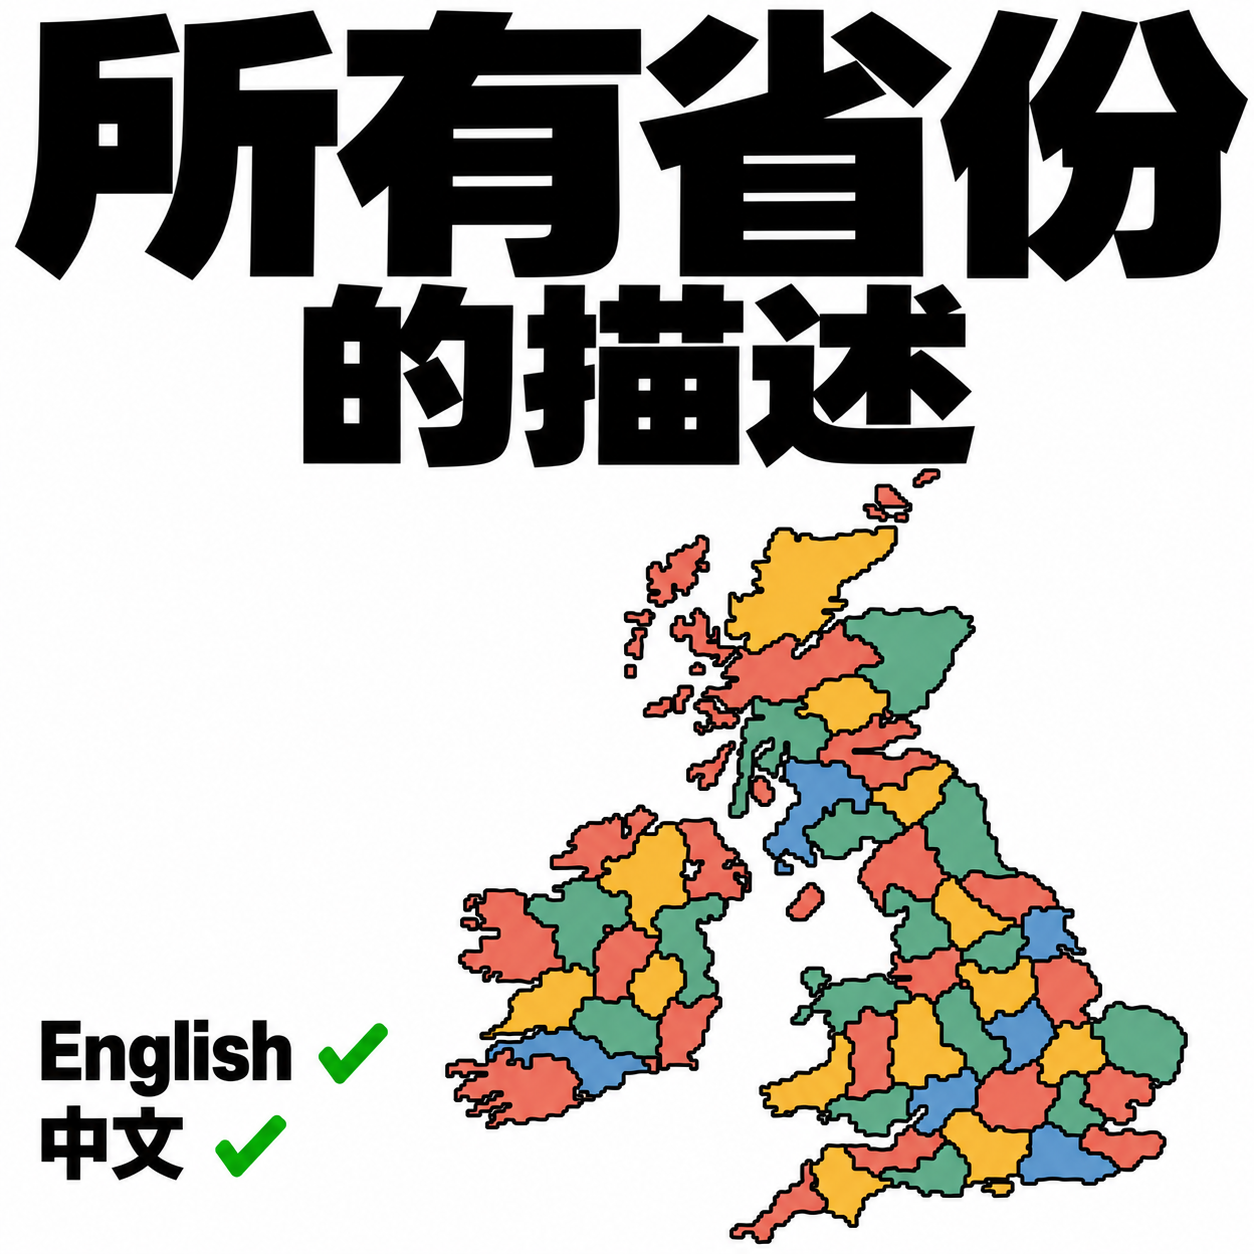
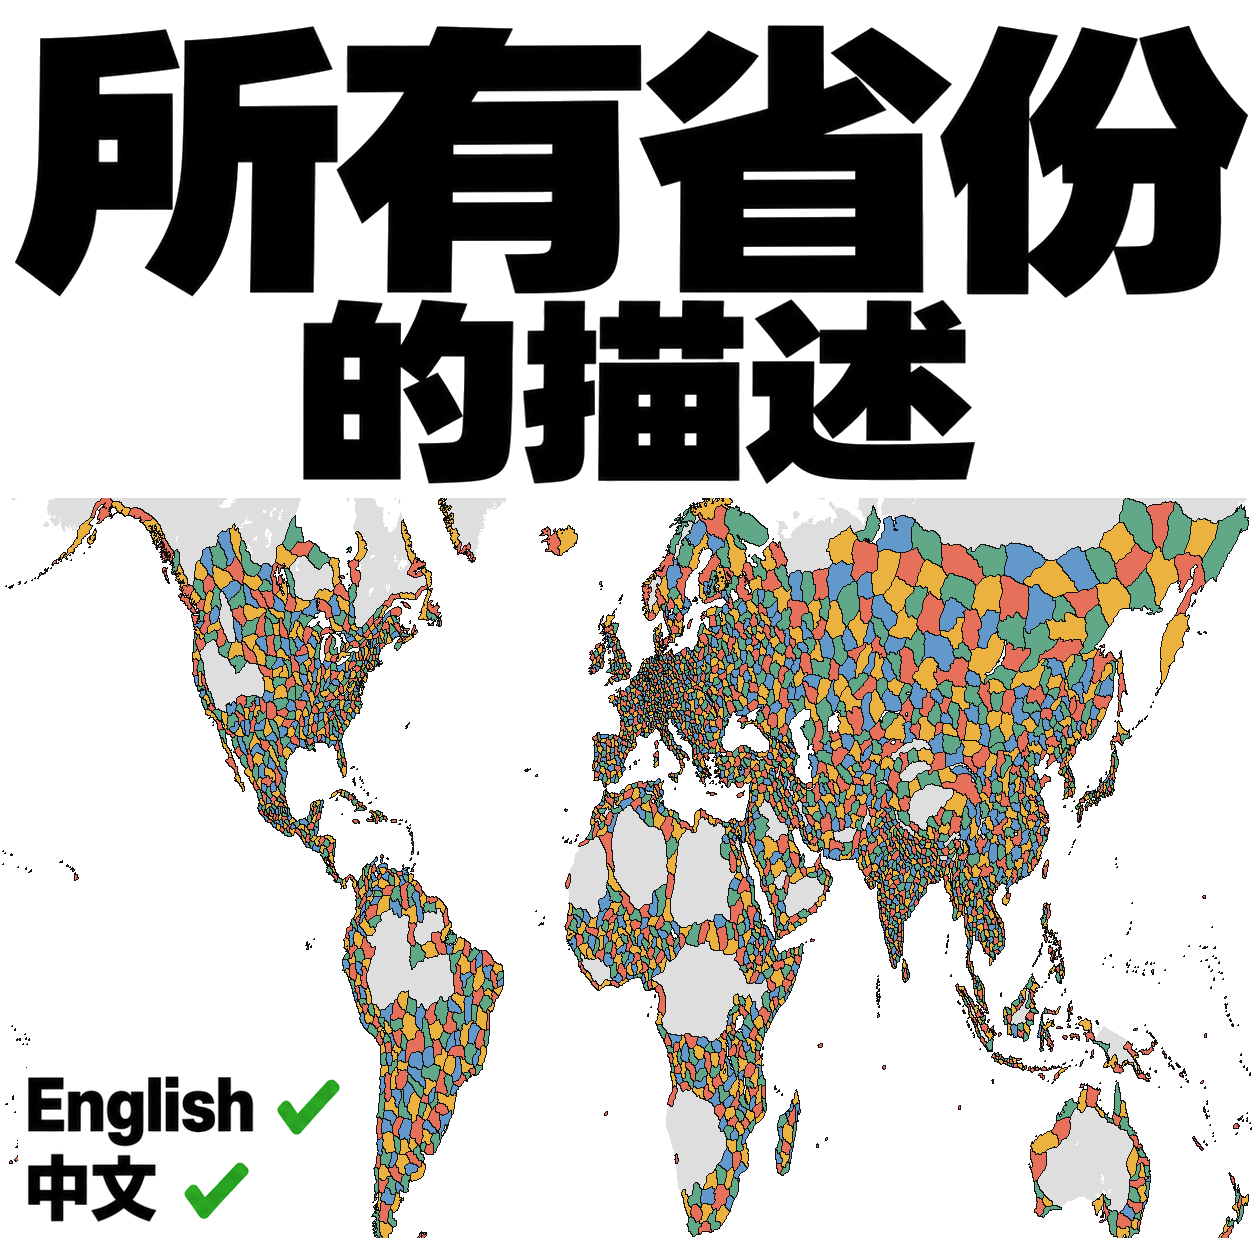
Cover: world map of all 3,272 described provinces (four-colour, stretched to fill the square), replacing the British Isles map; cover.py world

diff --git a/tools/cover.py b/tools/cover.py
@@ -1,11 +1,15 @@
 """工坊封面：从游戏地图取参考图，交给 Codex 生图模型画成封面，再导出工坊和模组要的尺寸。
 
-python tools/cover.py reference --game-root "<EU4 安装目录>"   # Windows：画 workshop/assets/map-reference.png（真实省份轮廓，四色）
+python tools/cover.py world --game-root "<EU4 安装目录>"       # Windows：画全世界四色省份图，拼成 cover-master.en.png / .zh-CN.png（现行封面）
+python tools/cover.py reference --game-root "<EU4 安装目录>"   # 旧：画不列颠群岛四色参考图（0.15.0 前的封面）
 python tools/cover.py derive                                   # 从 cover-master.en.png / cover-master.zh-CN.png 导出
                                                                # cover.jpg、cover.zh-CN.jpg（1254，JPEG 90）和 thumbnail.png（512）
 
-要 Pillow（uv run --with pillow python tools/cover.py derive）。母版由 Codex 生图模型按参考图画成，提示词在 workshop/assets/cover-prompt.*.txt。
-参考图只取轮廓和邻接关系，不含游戏美术；封面是宣传图，不是游戏截图。
+要 Pillow；world 还要 numpy。
+现行封面（2026-11-04 起）：world 从游戏地图取有词条的 3,272 个陆地省份四色上色（没词条的陆地灰色，海和湖白色），
+地图铺满宽度、纵向拉伸到正好填满标题下方，再拼上 title.<语言>.png 和左下角太平洋里的 languages.png。
+标题和语言标签是从旧的生图母版（Codex 生图模型按不列颠参考图画成，提示词在 cover-prompt.*.txt）裁下来的固定素材。
+地图只取轮廓和邻接关系，不含游戏美术；封面是宣传图，不是游戏截图。
 """
 import argparse
 import hashlib
@@ -117,6 +121,80 @@ def reference(game):
     print(f'{len(adj)} 个省份，参考图 {out.size} → {ASSETS / "map-reference.png"}')
 
 
+
+WORLD_SIDE, WORLD_PAD, WORLD_GAP = 1254, 16, 14
+GRAY = (222, 222, 222)
+
+
+def world(game):
+    import numpy as np
+    keep = {json.loads(l)['id'] for l in (ROOT / 'data' / 'entries.jsonl').read_text(encoding='utf-8').splitlines() if l.strip()}
+    dm = re.sub(r'#.*', '', (game / 'map' / 'default.map').read_text(encoding='latin-1'))
+    water = set()
+    for k in ('sea_starts', 'lakes'):
+        water |= {int(x) for x in re.findall(r'\d+', re.search(k + r'\s*=\s*\{([^}]*)\}', dm).group(1))}
+    c2id = {}
+    for line in (game / 'map' / 'definition.csv').read_text(encoding='latin-1').splitlines()[1:]:
+        f = line.split(';')
+        if len(f) >= 4 and f[0].isdigit():
+            c2id[(int(f[1]) << 16) | (int(f[2]) << 8) | int(f[3])] = int(f[0])
+    img = np.asarray(Image.open(game / 'map' / 'provinces.bmp').convert('RGB')).astype(np.int64)
+    H, W, _ = img.shape
+    u, inv = np.unique((img[..., 0] << 16) | (img[..., 1] << 8) | img[..., 2], return_inverse=True)
+    ids = np.array([c2id.get(int(k), 0) for k in u])[inv].reshape(H, W)
+    # 有词条的省份 → id；没词条的陆地 → -1（灰）；海、湖、未定义 → 0（白）
+    grid = np.where(np.isin(ids, list(keep)), ids, np.where(np.isin(ids, list(water)) | (ids == 0), 0, -1))
+    # 上下裁到有词条像素较多的行（去掉极地零星小岛，留几行边）
+    rows = np.where((grid > 0).sum(1) > 200)[0]
+    y0, y1 = max(rows.min() - 6, 0), min(rows.max() + 6, H)
+    grid = grid[y0:y1]
+    h = grid.shape[0]
+    adj = {}
+    for a, b in ((grid[:, :-1], grid[:, 1:]), (grid[:-1], grid[1:])):
+        m = (a != b) & (a > 0) & (b > 0)
+        for x, y in set(zip(a[m].tolist(), b[m].tolist())):
+            adj.setdefault(x, set()).add(y)
+            adj.setdefault(y, set()).add(x)
+    col = {}
+    for i in sorted(sorted(set(np.unique(grid[grid > 0]).tolist())), key=lambda i: -len(adj.get(i, ()))):
+        used = {col[j] for j in adj.get(i, ()) if j in col}
+        col[i] = next((c for c in range(4) if c not in used), i % 4)
+    lut = np.zeros(max(col) + 1, np.int64)
+    for k, v in col.items():
+        lut[k] = v
+    pal = np.array(PALETTE, np.uint8)
+
+    def render(width, height):
+        g = grid[(np.arange(height) * h / height).astype(int).clip(0, h - 1)][:, (np.arange(width) * W / width).astype(int).clip(0, W - 1)]
+        out = np.full((height, width, 3), 255, np.uint8)
+        out[g == -1] = GRAY
+        out[g > 0] = pal[lut[g[g > 0]]]
+        e = np.zeros(g.shape, bool)
+        e[:, :-1] |= (g[:, :-1] != g[:, 1:]) & ((g[:, :-1] > 0) | (g[:, 1:] > 0))
+        e[:-1] |= (g[:-1] != g[1:]) & ((g[:-1] > 0) | (g[1:] > 0))
+        out[e] = INK
+        return Image.fromarray(out)
+
+    render(WORLD_SIDE, round(h * WORLD_SIDE / W)).save(ASSETS / 'map-reference.png', optimize=True)
+    labels = Image.open(ASSETS / 'languages.png').convert('RGB')
+    labels = labels.resize((round(labels.width * .9), round(labels.height * .9)), Image.LANCZOS)
+    stretch = {}
+    for lang in ('en', 'zh-CN'):
+        title = Image.open(ASSETS / f'title.{lang}.png').convert('RGB')
+        my = WORLD_PAD + title.height + WORLD_GAP
+        mh = WORLD_SIDE - my - WORLD_PAD
+        out = Image.new('RGB', (WORLD_SIDE, WORLD_SIDE), 'white')
+        out.paste(title, (0, WORLD_PAD))
+        out.paste(render(WORLD_SIDE, mh), (0, my))
+        out.paste(labels, (18, my + mh - labels.height - 6))   # 左下角太平洋
+        out.save(ASSETS / f'cover-master.{lang}.png', optimize=True)
+        stretch[lang] = round(mh / (h * WORLD_SIDE / W), 2)
+    src = {'map': 'world', 'provinces': len(col), 'rows': [int(y0), int(y1)], 'vertical_stretch': stretch,
+           'source': 'EU4 map/provinces.bmp, definition.csv, default.map; data/entries.jsonl'}
+    (ASSETS / 'map-source.json').write_text(json.dumps(src, indent=1) + '\n', encoding='utf-8')
+    print(f'{len(col)} 个省份，纵向拉伸 {stretch} → cover-master.en.png / cover-master.zh-CN.png')
+
+
 def derive():
     files = {}
     for lang, jpg in (('en', 'cover.jpg'), ('zh-CN', 'cover.zh-CN.jpg')):
@@ -139,11 +217,11 @@ def derive():
 def main():
     ap = argparse.ArgumentParser(description=__doc__, formatter_class=argparse.RawDescriptionHelpFormatter)
     sub = ap.add_subparsers(dest='cmd', required=True)
-    r = sub.add_parser('reference')
-    r.add_argument('--game-root', type=Path, required=True)
+    for name in ('world', 'reference'):
+        sub.add_parser(name).add_argument('--game-root', type=Path, required=True)
     sub.add_parser('derive')
     a = ap.parse_args()
-    reference(a.game_root) if a.cmd == 'reference' else derive()
+    {'world': lambda: world(a.game_root), 'reference': lambda: reference(a.game_root), 'derive': derive}[a.cmd]()
 
 
 if __name__ == '__main__':

diff --git a/AGENTS.md b/AGENTS.md
@@ -64,9 +64,9 @@ python -B tools\build.py --verify dist\<新目录>
 | `tools/release.py` | 准备一个版本（升版本、CHANGELOG、全部检查、构建），两个发布工程相同 |
 | `tools/steam_upload.py`、`tools/steam_page.py` | 更新已有工坊条目的内容和页面 |
 | `tools/eu4zh.py` | 中文模组（工坊 2976470733）的文字编码，和研究工程里的同名文件一致，改一处要同步另一处 |
-| `tools/cover.py` | 封面：`reference` 从游戏地图画不列颠群岛的四色参考图，`derive` 从生图母版导出封面和缩略图 |
+| `tools/cover.py` | 封面：`world` 从游戏地图画全世界四色省份图（纵向拉伸填满标题下方），拼成中英文母版；`derive` 导出封面和缩略图；`reference` 是 0.15.0 前不列颠群岛封面的参考图 |
 | `workshop/` | 工坊页面中英文案（`description.*.txt`，BBCode）、更新说明、模组里附带的玩家说明 `player-readme.*.md`、`page.json` |
-| `workshop/assets/` | 封面母版 `cover-master.*.png`（Codex 生图模型按 `map-reference.png` 和 EU5 地块封面画成，提示词在 `cover-prompt.*.txt`）、导出的 `cover.jpg`、`cover.zh-CN.jpg`、`thumbnail.png` |
+| `workshop/assets/` | 封面母版 `cover-master.*.png`（2026-11-04 起由 `cover.py world` 生成：世界地图 ＋ 固定素材 `title.*.png`、`languages.png`；这些素材裁自旧的生图母版，Codex 生图模型按不列颠参考图和 EU5 地块封面画成，提示词在 `cover-prompt.*.txt`）、导出的 `cover.jpg`、`cover.zh-CN.jpg`、`thumbnail.png` |
 | `LICENSE`、`LICENSES/`、`CREDITS.md` | 工具 MIT、正文 CC BY-SA 4.0（照 EU5 地块模组的选择），署名和第三方说明；都会打进模组 |
 | `CHANGELOG.md` | 版本记录，由 `release.py` 写 |
 
